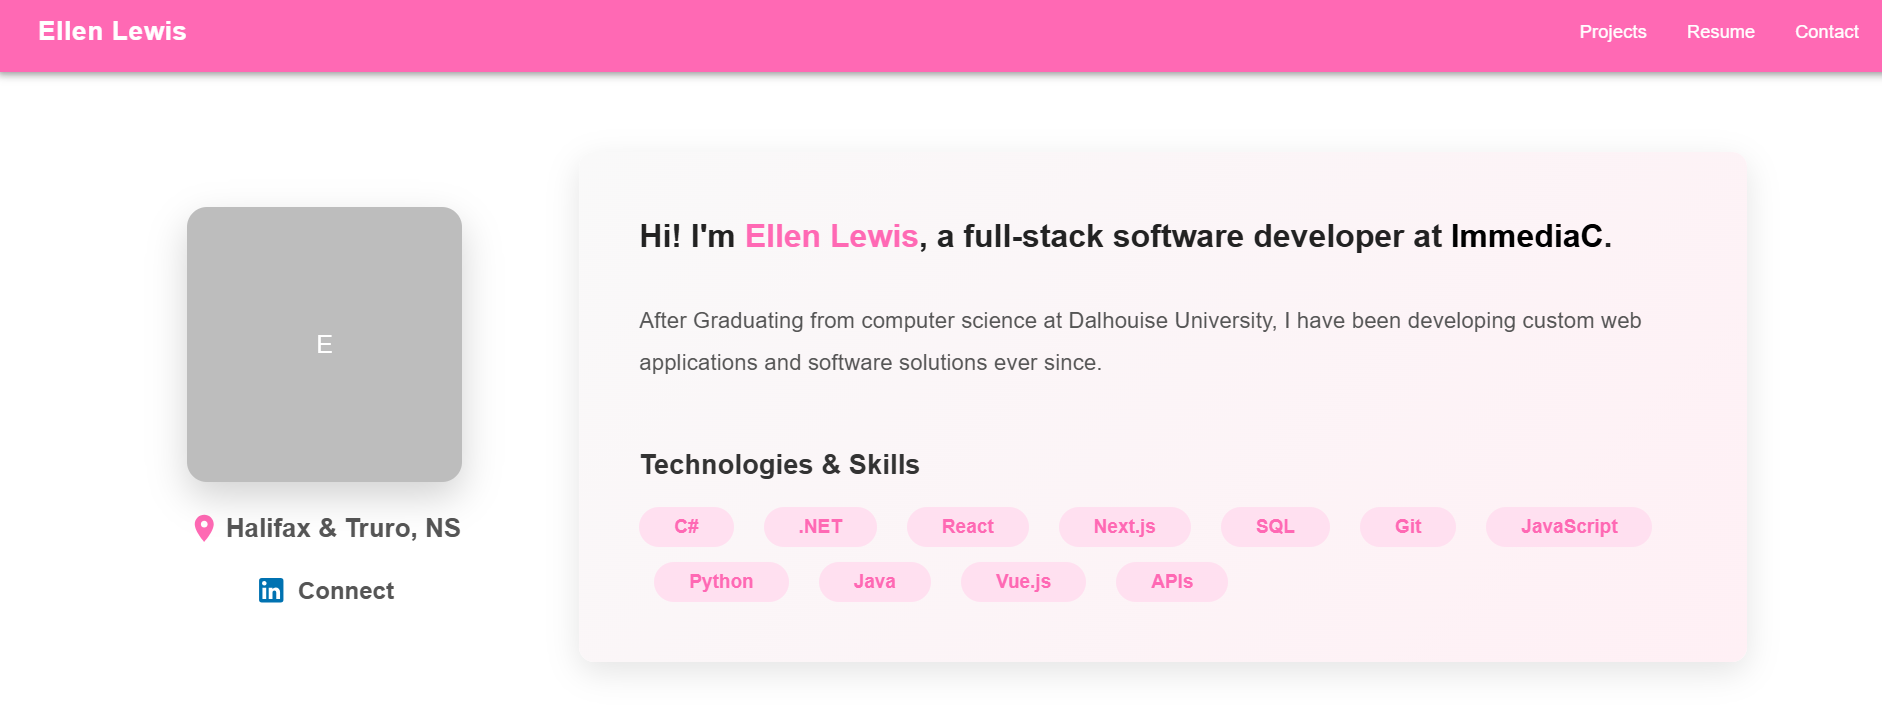
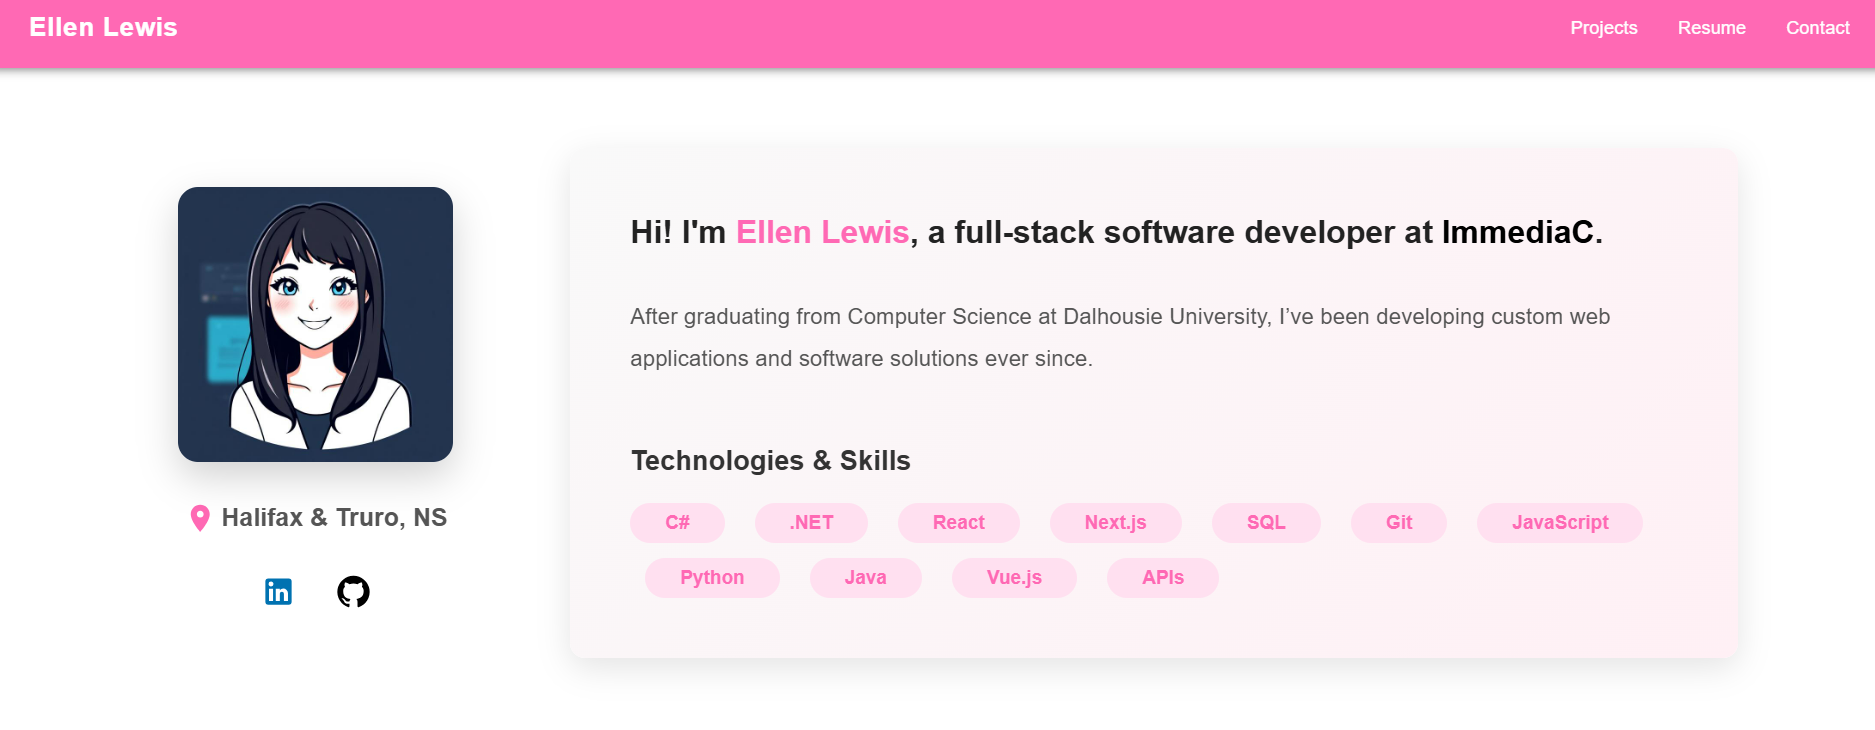
add new images

diff --git a/ellenlewisportfolio/app/page.js b/ellenlewisportfolio/app/page.js
@@ -1,7 +1,8 @@
 import styles from "./page.module.css";
-import { Box, Typography, Chip, Stack, Avatar } from "@mui/material";
+import { Box, Typography, Chip, Stack, Avatar, IconButton } from "@mui/material";
 import LocationOnIcon from "@mui/icons-material/LocationOn";
-import LinkedInIcon from '@mui/icons-material/LinkedIn';
+import LinkedInIcon from "@mui/icons-material/LinkedIn";
+import GitHubIcon from "@mui/icons-material/GitHub";
 
 export default function Home() {
   const technologies = [
@@ -11,9 +12,9 @@ export default function Home() {
 
   return (
     <div className={styles.page}>
-
       {/* About + Image section */}
-      <Box className={styles.fadeUp}
+      <Box
+        className={styles.fadeUp}
         component="main"
         sx={{
           display: "flex",
@@ -22,23 +23,24 @@ export default function Home() {
           justifyContent: "center",
           gap: { xs: 6, md: 8 },
           px: 3,
-          maxWidth: '90%',
+          maxWidth: "90%",
           mx: "auto",
         }}
       >
-        {/* Profile Image */}
+        {/* Profile Image + Info */}
         <Box
           sx={{
             flex: { xs: "auto", md: 1 },
             display: "flex",
             flexDirection: "column",
             alignItems: "center",
-            gap: 2
+            gap: 2,
           }}
         >
+          {/* Profile Picture */}
           <Avatar
             alt="Ellen Lewis"
-            src="/images/profile.jpg"
+            src="/images/ellenlewis9.jpg"
             sx={{
               width: { xs: 180, md: 220 },
               height: { xs: 180, md: 220 },
@@ -52,62 +54,62 @@ export default function Home() {
             }}
           />
 
-
-          {/* Location under the image */}
+          {/* Location */}
           <Box
             sx={{
               display: "flex",
               alignItems: "center",
               color: "#555",
               fontWeight: 600,
-              fontSize: { xs: "1.2rem", md: "1.3rem" },
+              fontSize: { xs: "1.1rem", md: "1.25rem" },
+              mt: 2,
               gap: 0.5,
-              mt: 1, // margin-top for spacing
             }}
           >
             <LocationOnIcon sx={{ color: "#ff69b4", fontSize: { xs: 22, md: 26 } }} />
             Halifax & Truro, NS
           </Box>
 
-
-          {/* LinkedIn */}
-          <Box sx={{ mt: 1 }}>
-            <a
+          {/* Social Icons */}
+          <Box
+            sx={{
+              display: "flex",
+              gap: 2,
+              mt: 1,
+            }}
+          >
+            <IconButton
+              component="a"
               href="https://www.linkedin.com/in/ellen-lewis/"
               target="_blank"
               rel="noopener noreferrer"
-              style={{
-                display: "flex",
-                alignItems: "center",
-                gap: "6px",
-                textDecoration: "none",
-                fontWeight: 600,
-                fontSize: "1.2rem",
-                color: "#555",
+              sx={{
+                color: "#0072b1",
                 transition: "transform 0.3s ease",
+                "&:hover": { transform: "translateY(-3px)" },
               }}
             >
-              <Box
-                sx={{
-                  display: "flex",
-                  alignItems: "center",
-                  gap: 1,
-                  transition: "transform 0.3s ease",
-                  "&:hover": {
-                    transform: "translateY(-3px)",
-                  },
-                }}
-              >
-                <LinkedInIcon sx={{ fontSize: { xs: 22, md: 26 }, color: "#0072b1" }} />
-                Connect
-              </Box>
-            </a>
-          </Box>
+              <LinkedInIcon sx={{ fontSize: { xs: 26, md: 28 } }} />
+            </IconButton>
 
+            <IconButton
+              component="a"
+              href="https://github.com/ellenlewisc"
+              target="_blank"
+              rel="noopener noreferrer"
+              sx={{
+                color: "#000",
+                transition: "transform 0.3s ease",
+                "&:hover": { transform: "translateY(-3px)" },
+              }}
+            >
+              <GitHubIcon sx={{ fontSize: { xs: 26, md: 28 } }} />
+            </IconButton>
+          </Box>
         </Box>
 
 
-        {/* About + Technologies Card*/}
+        {/* About + Technologies Card */}
         <Box
           sx={{
             flex: { xs: "auto", md: 3 },
@@ -121,7 +123,6 @@ export default function Home() {
             gap: 4,
           }}
         >
-
           {/* Intro */}
           <Typography
             variant="h5"
@@ -152,13 +153,13 @@ export default function Home() {
               rel="noopener noreferrer"
               sx={{
                 fontWeight: "bold",
-                textDecoration: "none", 
-                color: "#000", 
+                textDecoration: "none",
+                color: "#000",
                 display: "inline-block",
                 transition: "transform 0.3s ease, color 0.3s ease",
                 "&:hover": {
                   transform: "translateY(-3px)",
-                  color: "#ff69b4", 
+                  color: "#ff69b4",
                 },
               }}
             >
@@ -175,7 +176,7 @@ export default function Home() {
               lineHeight: 1.9,
             }}
           >
-            After Graduating from computer science at Dalhouise University, I have been developing custom web applications and software solutions ever since.
+            After graduating from Computer Science at Dalhousie University, I’ve been developing custom web applications and software solutions ever since.
           </Typography>
 
           {/* Technologies */}
@@ -199,7 +200,6 @@ export default function Home() {
               spacing={1.5}
               gap={1.5}
             >
-
               {technologies.map((tech) => (
                 <Chip
                   key={tech}
@@ -219,7 +219,6 @@ export default function Home() {
                     },
                   }}
                 />
-
               ))}
             </Stack>
           </Box>

diff --git a/ellenlewisportfolio/app/projects/page.js b/ellenlewisportfolio/app/projects/page.js
@@ -8,7 +8,7 @@ import {
   CardContent,
   CardActions,
   Button,
-  Box
+  Box,
 } from "@mui/material";
 import styles from "./page.module.css";
 
@@ -18,7 +18,7 @@ const mockProjects = [
     title: "Pilot Training Web App",
     link: "https://training.cougar.ca",
     description:
-      "A custom training platform built for Cougar Helicopters to replace their legacy systems and improve usability for tracking pilot and engineer cerrtifications/authorizations, and better management of courses, reports, and more.",
+      "A custom training platform built for Cougar Helicopters to replace their legacy systems and improve usability for tracking pilot and engineer certifications/authorizations, and better management of courses, reports, and more.",
     image: "/images/entries-page.png",
     technologies: [".NET", "C#", "Next.js", "React", "SQL", "OpenIddict"],
   },
@@ -34,25 +34,24 @@ const mockProjects = [
   {
     id: "frampton-lab-web-app",
     title: "Frampton Lab Web App",
-    link: "https://phasexplorer.framptonlab.com/", 
+    link: "https://phasexplorer.framptonlab.com/",
     description:
-      "Integrates Python data processing within a .NET environment, allowing researchers to execute scripts directly in the browser and test their chemical solutions",
+      "Integrates Python data processing within a .NET environment, allowing researchers to execute scripts directly in the browser and test their chemical solutions.",
     image: "/images/frampton-lab-home.png",
-    technologies: [".NET", "C#", "Python", "ImmediaCms"],
+    technologies: [".NET", "C#", "Python", "ImmediaCMS"],
   },
   {
     id: "vmo-operations-control-api",
     title: "VMO Operations Control API",
-    link: null, 
+    link: null,
     description:
-      "A .NET Web API that connects Cougar Helicopters’ VMO flight management system to their legacy databases enabling real-time flight data synchronization.",
+      "A .NET Web API that connects Cougar Helicopters’ VMO flight management system to their legacy databases, enabling real-time flight data synchronization.",
     image: "/images/vmo-api.png",
     technologies: [".NET", "C#", "SQL", "REST APIs"],
   },
   {
     id: "personal-portfolio",
     title: "Personal Portfolio Website",
-    link: "/", // your portfolio site
     description:
       "A side project to showcase client and personal projects. Built using Next.js with a Supabase SQL backend and deployed via Netlify for free hosting.",
     image: "/images/portfolio.png",
@@ -68,10 +67,17 @@ export default function Projects() {
         component="h1"
         gutterBottom
         align="center"
-        sx={{ mb: 4 }}
+        sx={{
+          mb: 4,
+          color: "#ff69b4",
+          fontSize: "2.8rem",
+          fontWeight: "bold",
+          letterSpacing: "0.05em",
+        }}
       >
         Projects
       </Typography>
+
       <Typography
         variant="h6"
         component="p"
@@ -79,8 +85,9 @@ export default function Projects() {
         color="text.secondary"
         sx={{ mb: 5 }}
       >
-        Here are some of the projects I've worked on for previous clients, as
-        well as some I've done on the side.
+        Here are some of the projects I've worked on for clients at Immediac,
+        internal projects at Cougar Helicopters, and some personal ones I've done
+        on the side.
       </Typography>
 
       <Grid container spacing={4}>
@@ -154,22 +161,24 @@ export default function Projects() {
                 >
                   View Details
                 </Button>
-                <Button
-                  size="small"
-                  href={project.link}
-                  target="_blank"
-                  rel="noopener noreferrer"
-                  color="primary"
-                  sx={{
-                    "&:hover": {
-                      backgroundColor: "rgba(25, 118, 210, 0.1)",
-                    },
-                  }}
-                >
-                  Live Site
-                </Button>
-              </CardActions>
 
+                {project.link && (
+                  <Button
+                    size="small"
+                    href={project.link}
+                    target="_blank"
+                    rel="noopener noreferrer"
+                    color="primary"
+                    sx={{
+                      "&:hover": {
+                        backgroundColor: "rgba(25, 118, 210, 0.1)",
+                      },
+                    }}
+                  >
+                    Live Site
+                  </Button>
+                )}
+              </CardActions>
             </Card>
           </Grid>
         ))}

diff --git a/ellenlewisportfolio/app/projects/[id]/page.js b/ellenlewisportfolio/app/projects/[id]/page.js
@@ -54,9 +54,9 @@ const projectData = {
   },
   "frampton-lab-web-app": {
     title: "Frampton Lab Web App",
-    longDescription: "A web app built on Immediac's content management system (ImmediaCMS: https://immediac.com/content-management-system) which handles the user authentication flow and most of the static content layout. The custom part of the solution I worked on integrates Python data processing in a .NET environment and allows researchers to execute scripts and test chemical solutions directly in the browser.",
+    longDescription: "A web app built on Immediac's content management system (ImmediaCMS: https://immediac.com/content-management-system) which handles the user authentication flow and most of the static content layout. The custom part of the solution I worked on integrates Python data processing in a .NET environment and allows researchers to execute scripts and test chemical solutions directly in the browser. The site design was done by a frontend designer so I primarily worked on the backend for this application.",
     image: "/images/frampton-lab-home.png",
-    technologies: [".NET", "C#", "Python", "ImmediaCms"],
+    technologies: [".NET", "C#", "Python", "ImmediaCMS"],
     features: ["Browser-based Python script execution", "Chemical database management"],
     challenges: ["Integrating Python with .NET", "Displaying real-time calculation results from the python scripts. It was difficult for me to ensure they were running correctly and involved a lot of client communication to understand the complex scientific results for aquesous solutions. (a little out of my speciality!)"],
     liveUrl: "https://phasexplorer.framptonlab.com/",
